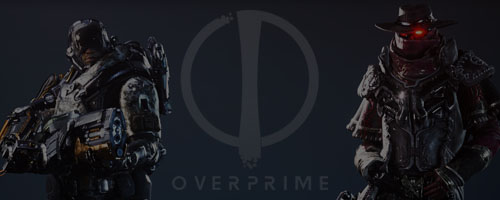
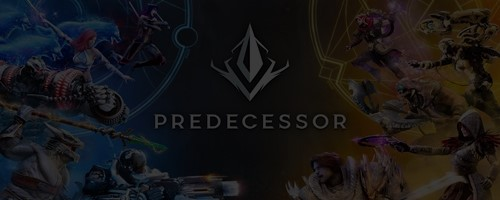
pred用
Predecessor用に改修

diff --git a/js/main.js b/js/main.js
@@ -128,7 +128,8 @@ function eloMatch(){
     randomELOUserList = userlist;
 
     // ELOにプラマイX%の差を付ける
-    var ELORANDOM = 0.05;
+    //var ELORANDOM = 0.05;
+    ELORANDOM = 0;
     for (var i = 0; i < randomELOUserList.length; i++){
       var plusflg = Math.floor(Math.random()*2);
       var plusnum = Math.floor(Math.random()*Number(randomELOUserList[i][1])*ELORANDOM);
@@ -233,18 +234,63 @@ function padd(val) {
 }
 
 
-$(function(){
-  $("#gelo").on("click", function(event){
-    let id = $("#userelo1").val();
-    $.ajax({
-      type: "GET",
-      url: "https://reshtml.herokuapp.com/",
-      data: { "id" : id }
-      //,dataType : "json"
-    }).done(function(data){
-      alert(data)
-    }).fail(function(XMLHttpRequest, status, e){
-      alert(e);
-    });
+async function getelo(){
+    //ELOが入力されている場合はスキップ
+    let checkELO = "";
+    let userid = "";
+    var ELO = "";
+
+    userlist = [
+      [document.getElementById("username1").value],
+      [document.getElementById("username2").value],
+      [document.getElementById("username3").value],
+      [document.getElementById("username4").value],
+      [document.getElementById("username5").value],
+      [document.getElementById("username6").value],
+      [document.getElementById("username7").value],
+      [document.getElementById("username8").value],
+      [document.getElementById("username9").value],
+      [document.getElementById("username10").value],
+    ];
+    userelo = [
+      [document.getElementById("userelo1").value],
+      [document.getElementById("userelo2").value],
+      [document.getElementById("userelo3").value],
+      [document.getElementById("userelo4").value],
+      [document.getElementById("userelo5").value],
+      [document.getElementById("userelo6").value],
+      [document.getElementById("userelo7").value],
+      [document.getElementById("userelo8").value],
+      [document.getElementById("userelo9").value],
+      [document.getElementById("userelo10").value],
+    ];
+
+    for(var i = 0; i < userlist.length; i++){
+      if(userlist[i] != ""){
+        ELO = await getELOfromOmeda(userlist[i]);
+        //ELOが取得できていれば入力
+        if(ELO){
+          var elementId = "userelo" + (i+1)
+          document.getElementById(elementId).value = ELO;
+        }
+      }
+    }
+};
+
+
+async function getELOfromOmeda(id){
+  let apiId = "https://omeda.city/players.json?page=1&filter[name]=" + id + "&filter[include_inactive]";
+  var ELO = "ERR"
+  await $.ajax({
+    type: "GET",
+    url: apiId,
+    dataType: "json",
+  }).done(function(data){
+    let jsondata = JSON.stringify(data);
+    let parse = JSON.parse(jsondata);
+    ELO = Math.round(parse[0]["mmr"]);
+  }).fail(function(XMLHttpRequest, status, e){
+    alert(e);
   });
-});
+  return ELO
+}

diff --git a/index.html b/index.html
@@ -2,7 +2,7 @@
 <html lang="ja">
     <head>
         <meta charset="utf-8">
-        <title>Overprime MatchMaker</title>
+        <title>Predecessor MatchMaker</title>
         <meta name="description" content="Overprime MatchMaker ver.0">
         <meta name="viewport" content="width=device-width, initial-scale=1.0">
         <link rel="stylesheet" href="css/style.css">
@@ -12,9 +12,9 @@
 <body>
 
     <!-- Main Start -->
-   <div id="main">
+    <div id="main">
         <!-- Headder -->
-        <p id="header">Overprime MatchMaker</p>
+        <p id="header">Predecessor MatchMaker</p>
         <!-- Headder END -->
 
         <!-- UserName & ELO List -->
@@ -214,15 +214,15 @@
         <input id="acd-check1" class="acd-check" type="checkbox">
         <label class="acd-label" for="acd-check1">▼　このツールについて</label>
         <div class="acd-content">
-            <p>Overprime 交流戦用のチーム分けツールです。</p>
+            <p>Predecessor 交流戦用のチーム分けツールです。</p>
             <p>チーム分け後は、画像をコピーしてDiscordに貼り付けるなどして使ってください。</p>
             <hr>
             <p>【Random MatchMake】は、完全ランダムにチーム分けされます。</p>
             <p>レート無関係でチーム分けされますので、バランスが悪くなるかもしれません。</p>
             <p>【ELO MatchMake】は、ある程度レートを考慮したチーム分けになります。</p>
-            <p>このボタンでは、入力されたELOに対して±5%の差が出ます。</p>
-            <p>表示されている数字が異なっていても仕様なので気にしないで下さい。</p>
-            <p>※レートの取得先が見つかったら本領発揮です。</p>
+            <p> ※チームをランダムにするため、ベストの振り分けにはしていません</p>
+            <!-- <p>このボタンでは、入力されたELOに対して±5%の差が出ます。</p> 現在0%運用中 -->
+            <!-- <p>表示されている数字が異なっていても仕様なので気にしないで下さい。</p> -->
         </div>
 
         <div Style="height:30px"></div>

diff --git a/css/style.css b/css/style.css
@@ -235,3 +235,4 @@ button, input, select, textarea, pre, th, td, li, dt, dd {
 	width: 100%;
 	transition: 0.4s;
 }
+

diff --git a/Readme.md b/Readme.md
@@ -1,20 +1,17 @@
-# OverprimeMatchMaker
+# PredecessorMatchMaker
 Twitter: @RinchaaaMako
 
-Overprimeの交流戦のチーム分けを決めるツールです。
+Predecessorの交流戦のチーム分けを決めるツールです。
 
-Overprimeで必要になるか不明ですが、古のツールを参考に突貫工事しました。
+Predecessorで必要になるか不明ですが、古のツールを参考に突貫工事しました。
 
-バグとか不具合とかあっても割り切って使っていただきたく。
 
 ## 使い方
 
-名前入れてボタンをポチっとするだけ。
+Omeda.cityから取得していますので、Omeda.cityの名前を入力してください。
 
-画像が生成されるのでコピーしてdiscordとかに貼り付けて使う想定。
+MatchMakeボタンを押すと画像が生成されるのでコピーしてdiscordとかに貼り付けて使う想定です。
 
 ## 今後
 
-古のゲーム同様に、どっかのサイトからレートが取得できるようになったら機能追加する予定。
-
-正直なところ、本職ではないのでjavascript怪しいので、有識者いたら助けてください。
+サービス存続を祈ってみなさんプレイと課金をしましょう。
